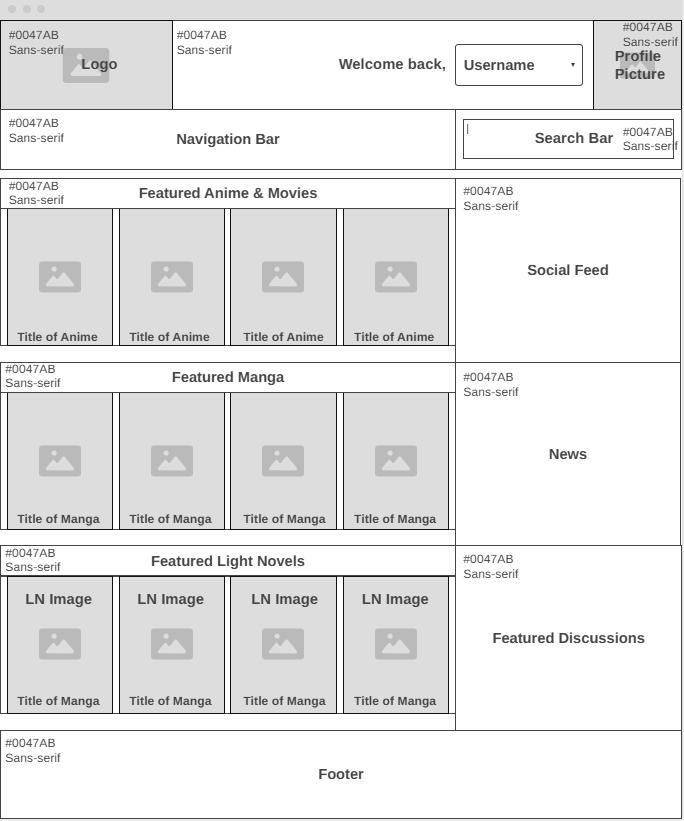
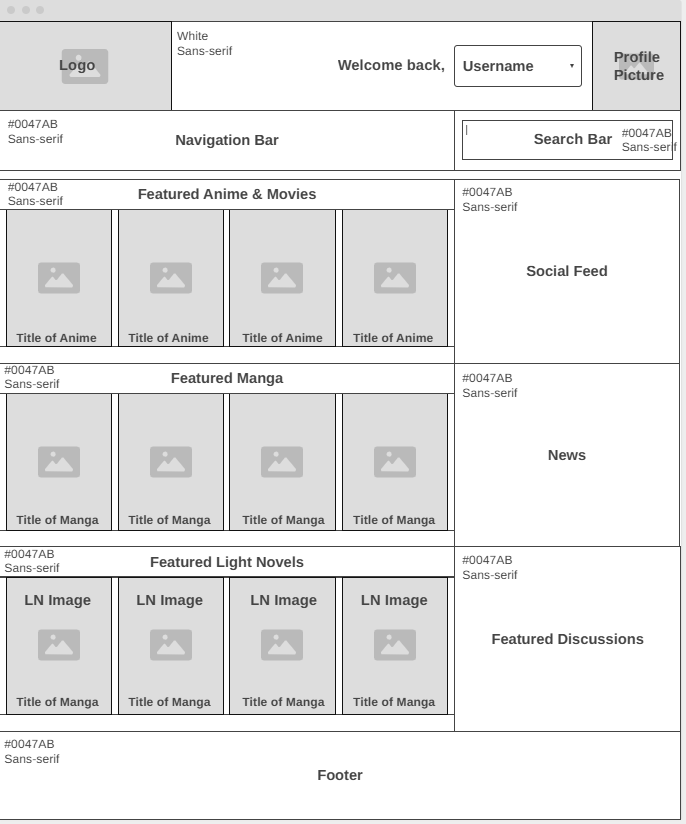
created

diff --git a/Assignments/AssignmentThree/Mockup.css b/Assignments/AssignmentThree/Mockup.css
@@ -1,0 +1,144 @@
+body{
+  background-color: white;
+}
+
+.header{
+  display: flex;
+  background-color: white;
+  height: auto;
+  width: auto;
+}
+
+.logo{
+  margin-right: 10px;
+}
+
+.welcome{
+  align-self: center;
+  margin-left: auto;
+  color: #0047AB;
+  font-size: 30px;
+  font-family: sans-serif;
+}
+
+.profile{
+  margin-left: 10px;
+}
+
+.nav{
+  float: left;
+  background-color: #0047AB;
+  height: 80px;
+  width: 70%;
+  color: white;
+  font-size: 30px;
+  font-family: sans-serif;
+  text-align: center;
+}
+
+.search{
+  display: flex;
+  float: right;
+  height: 80px;
+  width: 30%;
+  background-color: #0047AB
+}
+
+.searchbar{
+  background-color: white;
+  color: #0047AB;
+  font-size: 15px;
+  font-family: sans-serif;
+  align-self: center;
+  margin-left: auto;
+}
+
+.featuredanime{
+  float: left;
+  background-color: #0047AB;
+  color: white;
+  font-size: 20px;
+  font-family: sans-serif;
+  text-align: center;
+  height: 50px;
+  width: 70%;
+  margin-top: 20px;
+}
+
+.social{
+  float: right;
+  background-color: #0047AB;
+  color: white;
+  font-size: 20px;
+  font-family: sans-serif;
+  text-align: center;
+  height: 540px;
+  width: 30%;
+  margin-top: 20px;
+}
+
+.animecarousel{
+  clear: left;
+  display: flex;
+  justify-content: center;
+  column-gap: 20px;
+  padding: 20px;
+}
+
+.featuredmanga{
+  float: left;
+  background-color: #0047AB;
+  color: white;
+  font-size: 20px;
+  font-family: sans-serif;
+  text-align: center;
+  height: 50px;
+  width: 70%;
+}
+
+.news{
+  float: right;
+  background-color: #0047AB;
+  color: white;
+  font-size: 20px;
+  font-family: sans-serif;
+  text-align: center;
+  height: 540px;
+  width: 30%;
+}
+
+.mangacarousel{
+  clear: left;
+  display: flex;
+  justify-content: center;
+  column-gap: 20px;
+  padding: 20px;
+}
+
+.featuredln{
+  float: left;
+  background-color: #0047AB;
+  color: white;
+  font-size: 20px;
+  font-family: sans-serif;
+  text-align: center;
+  height: 50px;
+  width: 70%;
+}
+
+.discussions{
+  float: right;
+  background-color: #0047AB;
+  color: white;
+  font-size: 20px;
+  font-family: sans-serif;
+  text-align: center;
+  height: 540px;
+  width: 30%;
+}
+
+.lncarousel
+
+
+
+.footer

diff --git a/Assignments/AssignmentThree/Mockup.html b/Assignments/AssignmentThree/Mockup.html
@@ -1,0 +1,79 @@
+<!--?xml version="1.0" encoding="UTF-8"?-->
+<!DOCTYPE html PUBLIC "-//W3C//DTD XHTML 1.0 Transitional//EN" "http://www.w3.org/TR/xhtml1/DTD/xhtml1-transitional.dtd">
+<html xmlns="http://www.w3.org/1999/xhtml"><head>
+		<!--The head contains all of the confirguration items for our page-->
+		<meta http-equiv="Content-Type" content="text/html; charset=UTF-8" />
+    		<meta name="description" content="Basic Page Module 3" />
+		<meta content="en-us" http-equiv="Content-Language" />
+		<title>Mockup</title>
+		<link href="Mockup.css" type="text/css" rel="stylesheet" />
+	</head>
+
+	<body>
+		<!--The body contains all of the content for our page-->
+    <div class="header">
+      <div class="logo">
+        <img src="Images/Logo.png" alt="Logo">
+      </div>
+
+      <div class="welcome">
+        <p>Welcome back, Username</p>
+      </div>
+      <div class="profile">
+        <img src="Images/Profile.png" alt="">
+      </div>
+    </div>
+
+    <div class="nav">
+      <p>Navigation</p>
+    </div>
+
+    <div class="search">
+      <div class="searchbar">
+        Search anime, manga, and more...
+      </div>
+    </div>
+
+    <div class="featuredanime">
+      <p>Featured Anime & Movies</p>
+    </div>
+
+    <div class="social">
+      <p>Social</p>
+    </div>
+
+    <div class="animecarousel">
+      <img src="Images/anime.png" alt="">
+      <img src="Images/anime.png" alt="">
+      <img src="Images/anime.png" alt="">
+      <img src="Images/anime.png" alt="">
+    </div>
+
+    <div class="featuredmanga">
+      <p>Featured Manga</p>
+    </div>
+
+    <div class="news">
+      <p>News</p>
+    </div>
+
+    <div class="mangacarousel">
+      <img src="Images/manga.png" alt="">
+      <img src="Images/manga.png" alt="">
+      <img src="Images/manga.png" alt="">
+      <img src="Images/manga.png" alt="">
+    </div>
+
+    <div class="featuredln">
+      <p>Featured Light Novels</p>
+    </div>
+
+    <div class="discussions">
+      <p>Featured Discussions</p>
+    </div>
+
+	</body>
+
+
+
+</html>
